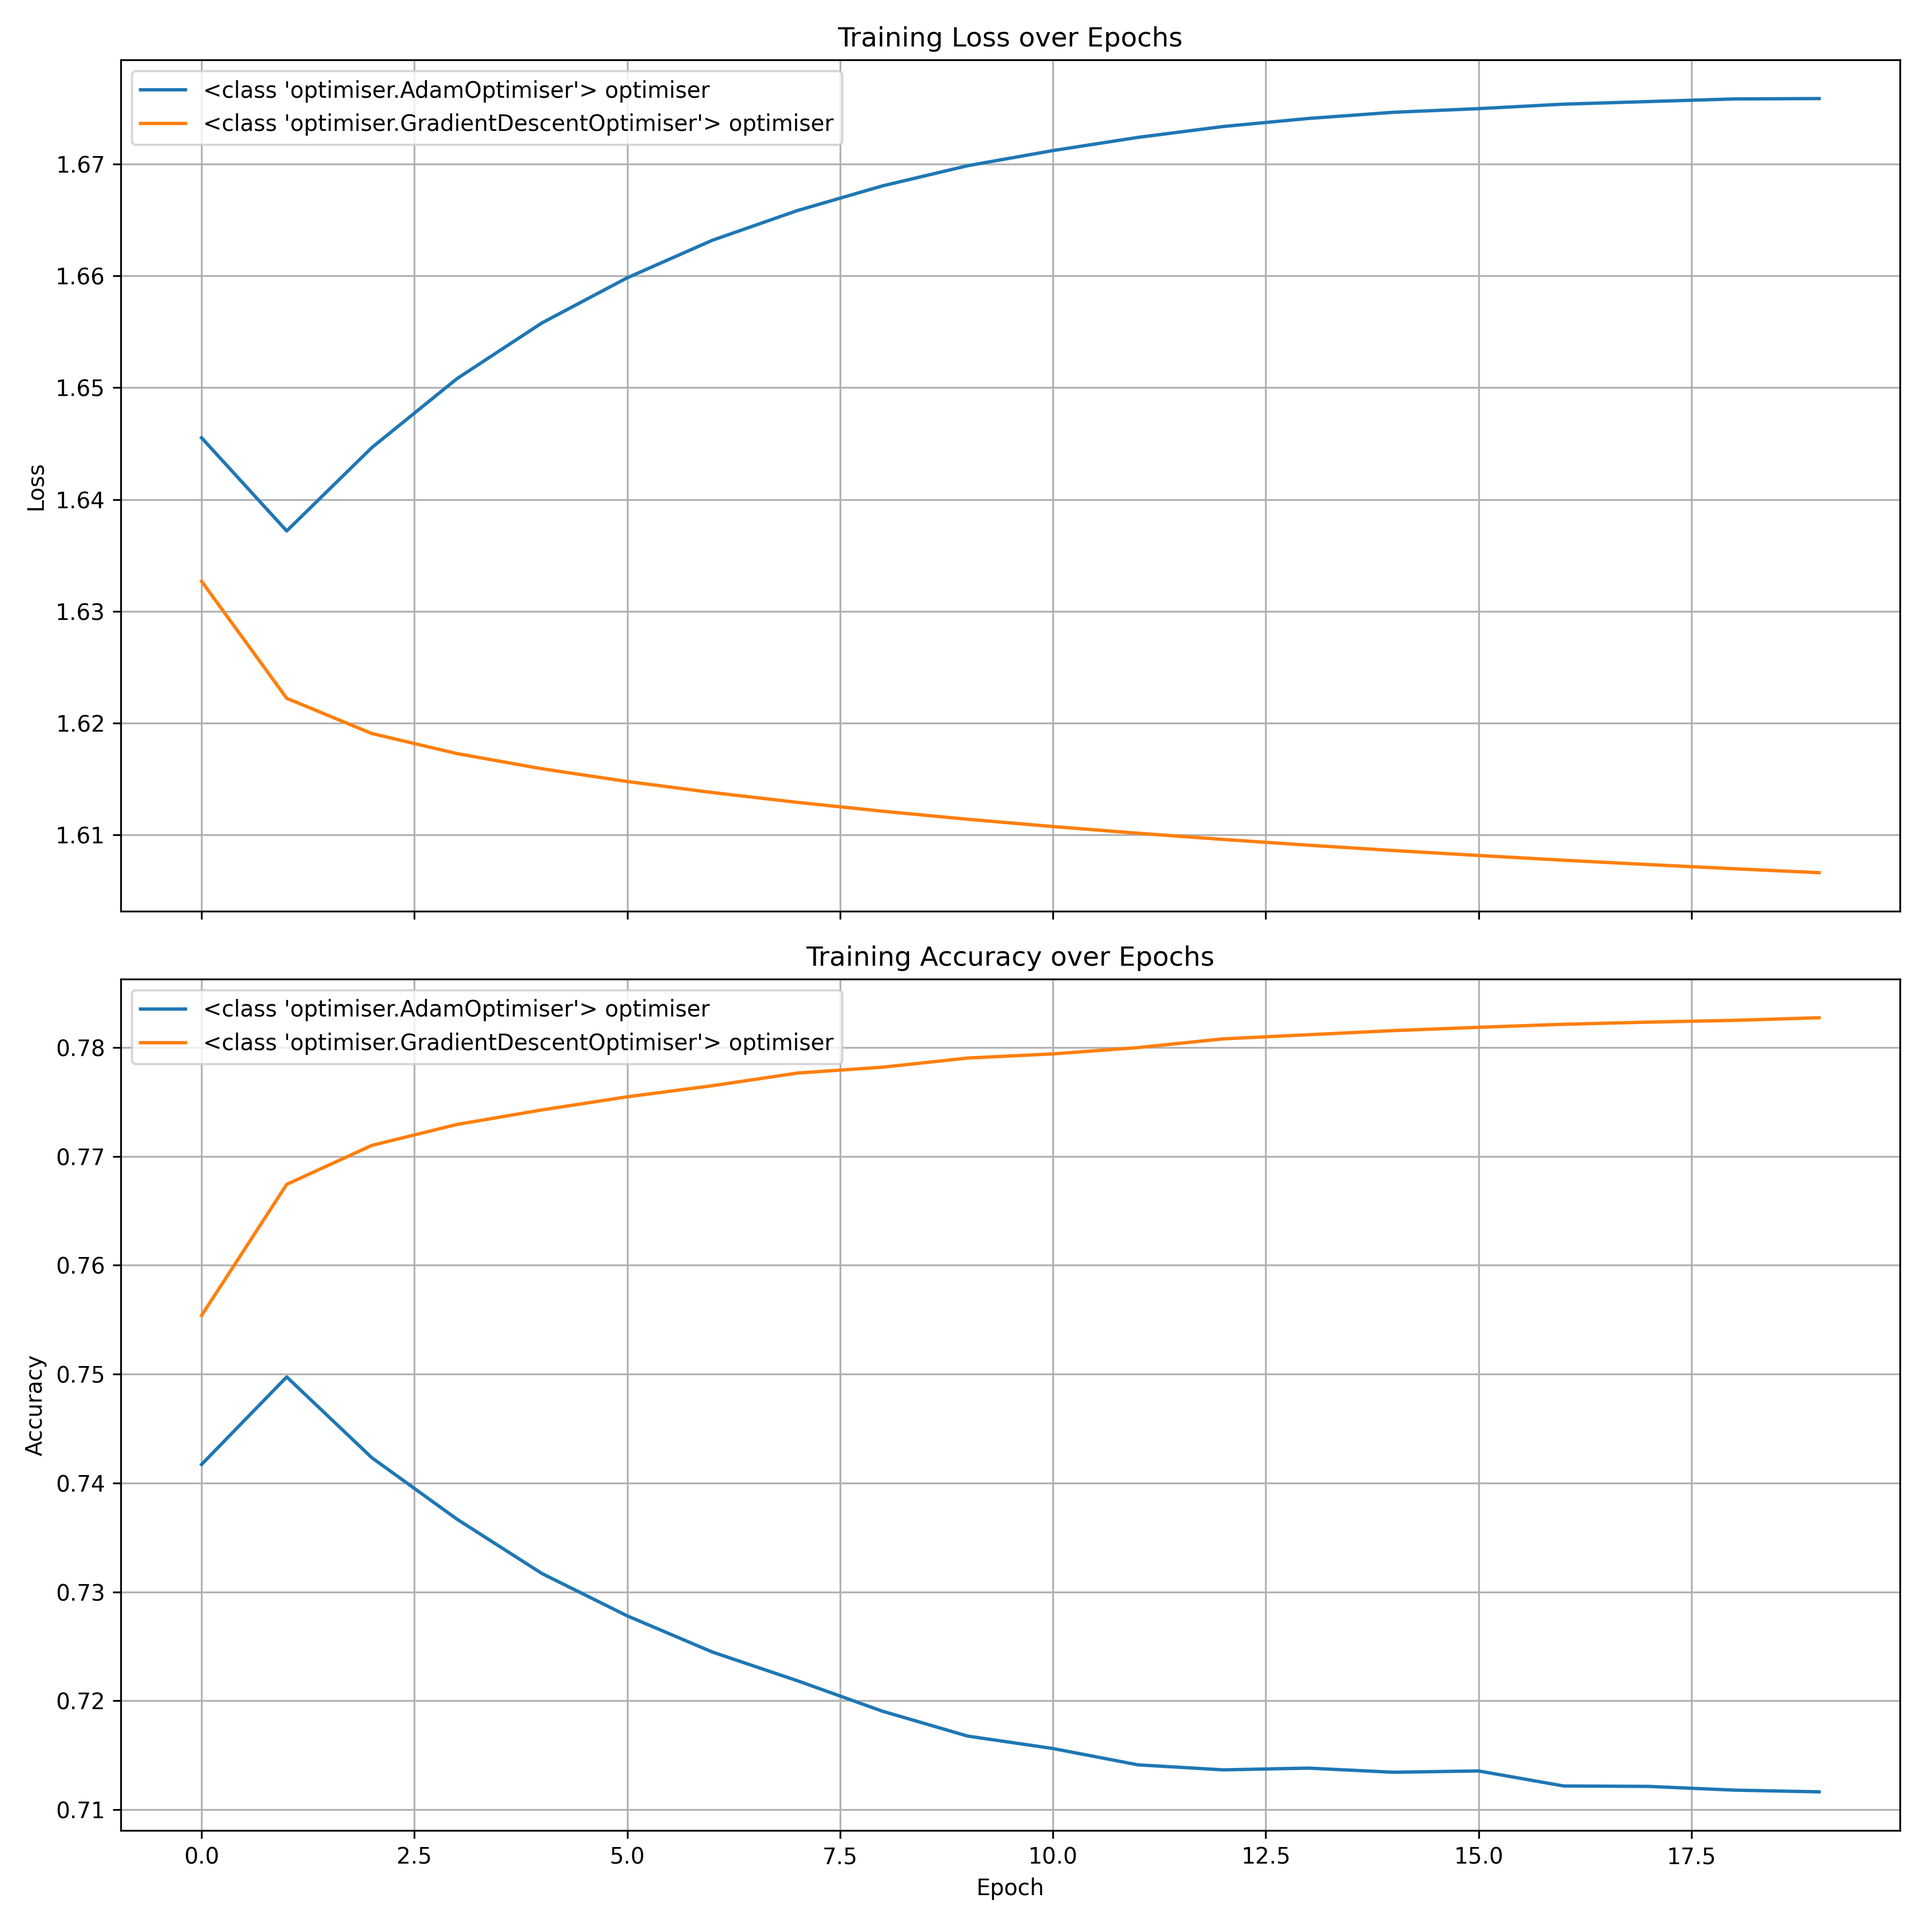
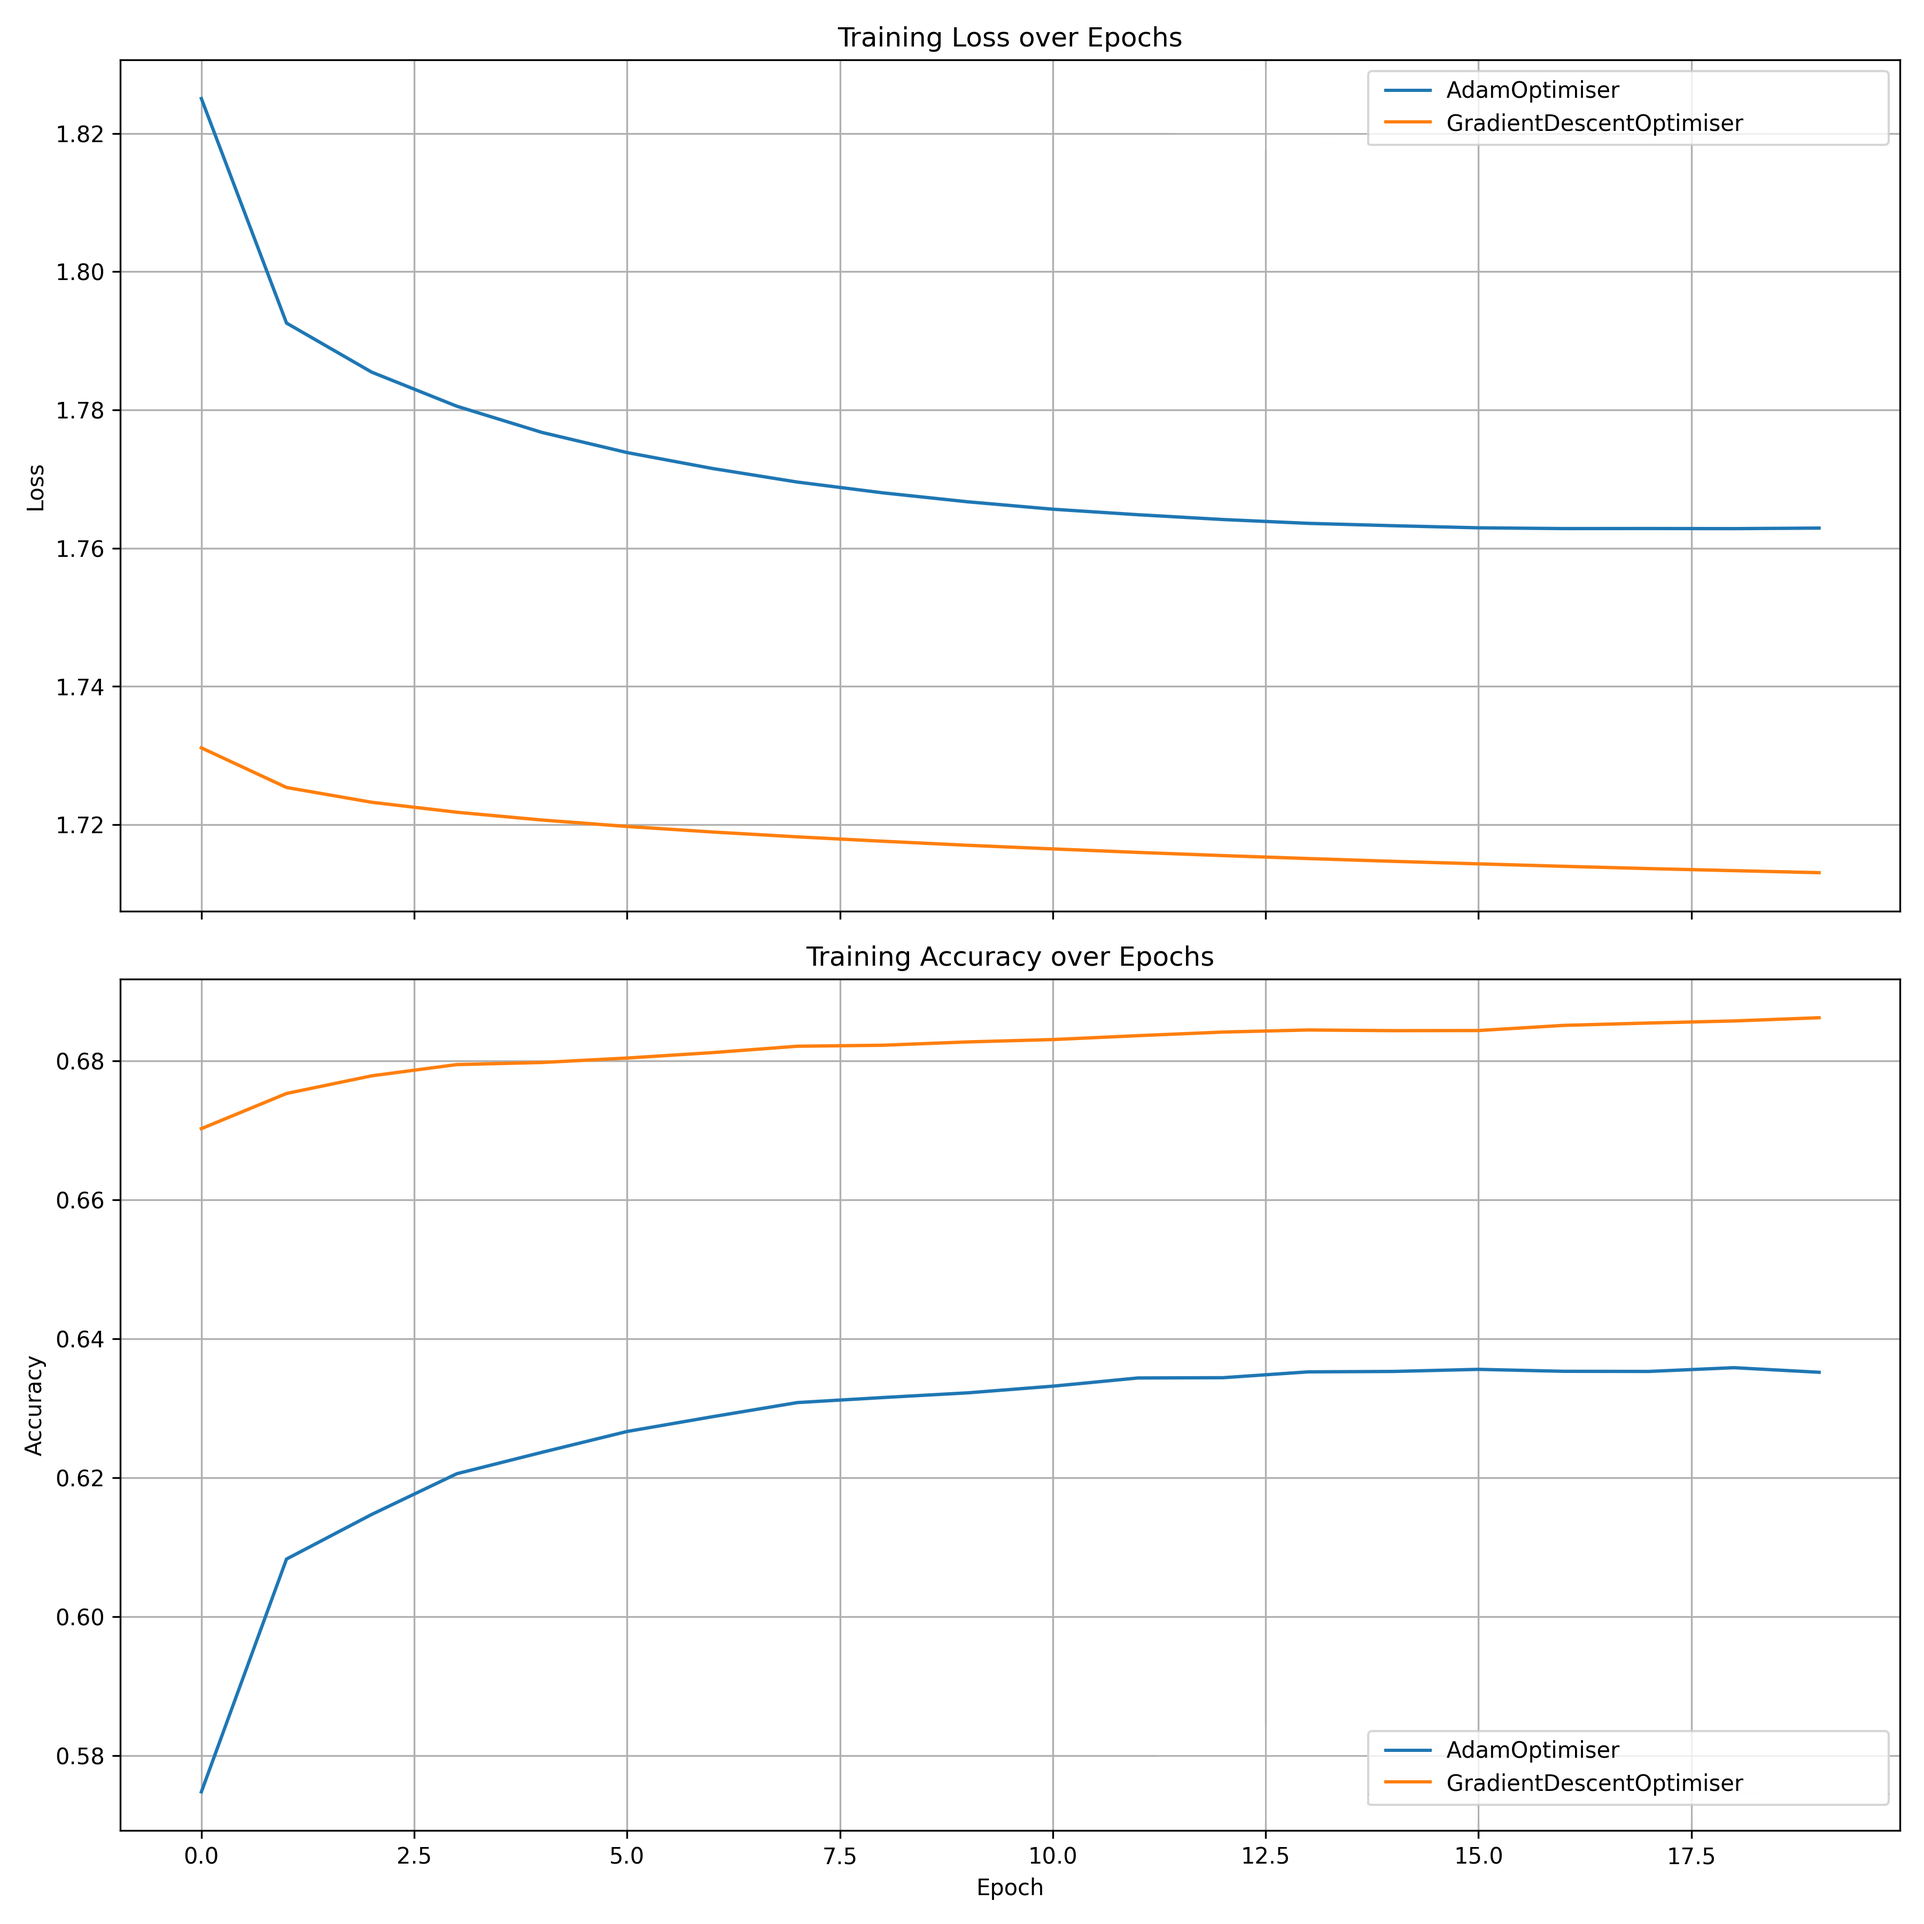
added ablation testing, this is the commit with the weird hyperparam results

diff --git a/experiments/ablation_test.py b/experiments/ablation_test.py
@@ -1,0 +1,119 @@
+import sys
+import os
+
+sys.path.append(os.path.abspath(os.path.join(os.path.dirname(__file__), "..")))
+
+import numpy as np
+
+from layer import (
+    Composite,
+    CrossEntropyLoss,
+    ReLU,
+    LeakyReLU,
+    Linear,
+    BatchNormalisation
+)
+from optimiser import GradientDescentOptimiser, AdamOptimiser
+from tensor import Tensor
+from util import kaiming_uniform, min_max_scale
+from train_util import save_loss_accuracy, train_loop, plot_losses_and_accuracies
+
+# Optimal model for reference
+optimal_model = Composite(
+    [
+        Linear(128, 256, initialise=kaiming_uniform),
+        BatchNormalisation(256),
+        LeakyReLU(),
+        Linear(256, 10, initialise=kaiming_uniform),
+    ]
+)
+
+def main():
+    # Optimal hyperparams
+    epochs = 20
+    batch_size = 64
+    normalisation = min_max_scale
+    learning_rate = 0.0001
+    weight_decay = 1e-05
+    optimiser = AdamOptimiser
+
+    # Define all sweeps
+    sweep_configs = {
+        "Optimal model": optimal_model,
+        "No hidden layer": Composite(
+            [
+                Linear(128, 10, initialise=kaiming_uniform),
+            ]
+        ),
+        "No activation": Composite(
+            [
+                Linear(128, 256, initialise=kaiming_uniform),
+                BatchNormalisation(256),
+                Linear(256, 10, initialise=kaiming_uniform),
+            ]
+        ),
+        "No batch normalisation": Composite(
+            [
+                Linear(128, 256, initialise=kaiming_uniform),
+                LeakyReLU(),
+                Linear(256, 10, initialise=kaiming_uniform),
+            ]
+        )
+    }
+
+    all_training_loss_lst = []
+    all_train_acc_lst = []
+
+    all_test_loss = []
+    all_test_accuracy = []
+
+    model_labels = list(sweep_configs.keys())
+
+    for sweep_type, model in sweep_configs.items():
+        # Load data
+        X_train = Tensor(normalisation(np.load("../data/train_data.npy")))
+        y_train = Tensor(np.load("../data/train_label.npy").squeeze())
+        X_test = Tensor(normalisation(np.load("../data/test_data.npy")))
+        y_test = Tensor(np.load("../data/test_label.npy").squeeze())
+
+        optimiser_current = optimiser(
+            model.get_all_tensors(),
+            learning_rate=learning_rate,
+            weight_decay=weight_decay,
+        )
+        loss_fn = CrossEntropyLoss(label_smoothing=0.3)
+
+        # Train
+        train_loss_lst, train_acc_lst, test_loss, test_accuracy = train_loop(
+            X_train,
+            y_train,
+            X_test,
+            y_test,
+            epochs,
+            batch_size,
+            model,
+            optimiser_current,
+            loss_fn,
+        )
+
+        all_training_loss_lst.append(train_loss_lst)
+        all_train_acc_lst.append(train_acc_lst)
+
+        all_test_loss.append(test_loss)
+        all_test_accuracy.append(test_accuracy)
+
+    folder = f"./experiments/results/ablation_study"
+
+    plot_losses_and_accuracies(folder + "/train", model_labels, all_training_loss_lst, all_train_acc_lst)
+
+    save_loss_accuracy(
+        folder,
+        model_labels,
+        [x[-1] for x in all_training_loss_lst],
+        [x[-1] for x in all_train_acc_lst],
+        all_test_loss,
+        all_test_accuracy,
+    )
+
+if __name__ == "__main__":
+    main()

diff --git a/experiments/all_experiments.py b/experiments/all_experiments.py
@@ -325,10 +325,10 @@ def run_experiment(folder, models, model_labels):
     all_test_accuracy = []
 
     for model in models:
-        X_train = Tensor(standard_scale(np.load("./data/train_data.npy")))
-        y_train = Tensor(np.load("./data/train_label.npy").squeeze())
-        X_test = Tensor(standard_scale(np.load("./data/test_data.npy")))
-        y_test = Tensor(np.load("./data/test_label.npy").squeeze())
+        X_train = Tensor(standard_scale(np.load("../data/train_data.npy")))
+        y_train = Tensor(np.load("../data/train_label.npy").squeeze())
+        X_test = Tensor(standard_scale(np.load("../data/test_data.npy")))
+        y_test = Tensor(np.load("../data/test_label.npy").squeeze())
 
         epochs = 50
         batch_size = 64

diff --git a/experiments/hyperparameter.py b/experiments/hyperparameter.py
@@ -14,6 +14,7 @@ from layer import (
     ReLU,
     LeakyReLU,
     Linear,
+    BatchNormalisation
 )
 from optimiser import AdamOptimiser, GradientDescentOptimiser
 from tensor import Tensor
@@ -23,6 +24,7 @@ from train_util import save_loss_accuracy, train_loop, plot_losses_and_accuracie
 model = Composite(
     [
         Linear(128, 256, initialise=kaiming_uniform),
+        BatchNormalisation(256),
         LeakyReLU(),
         Linear(256, 10, initialise=kaiming_uniform),
     ]
